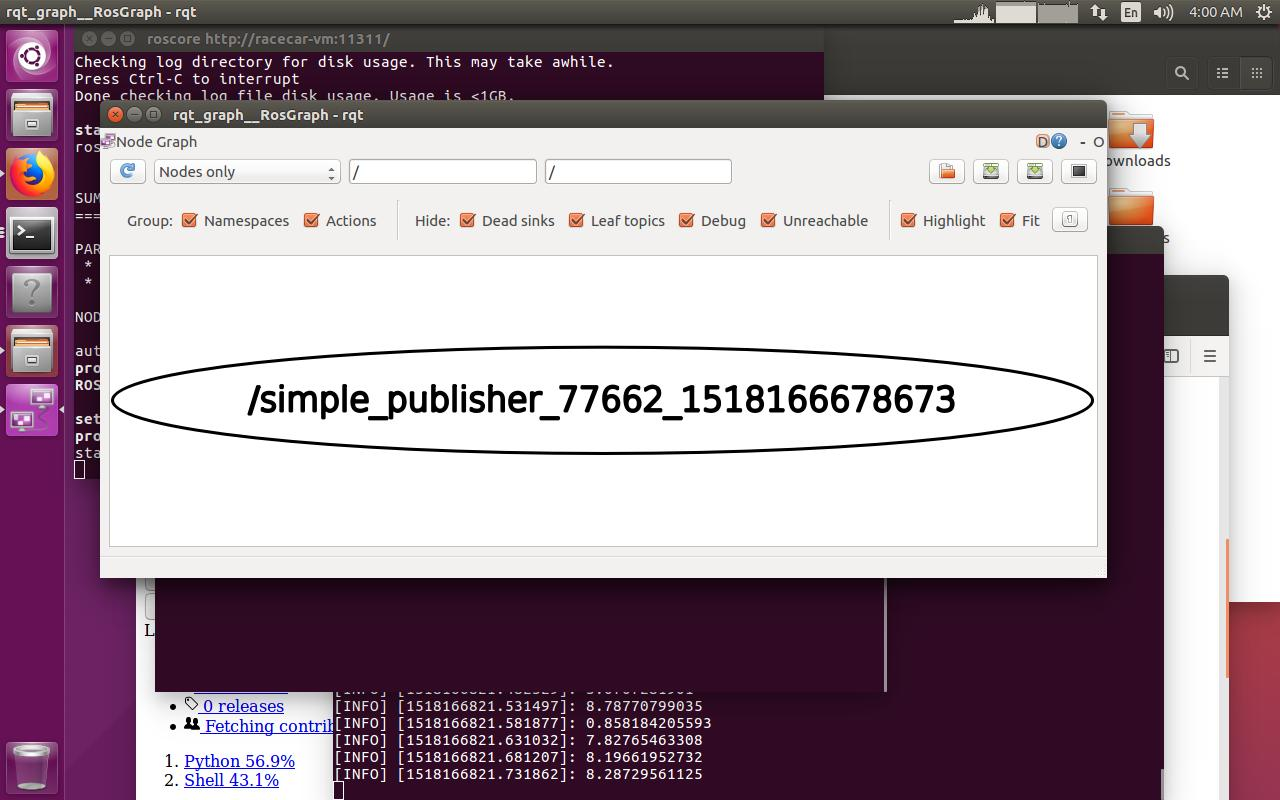
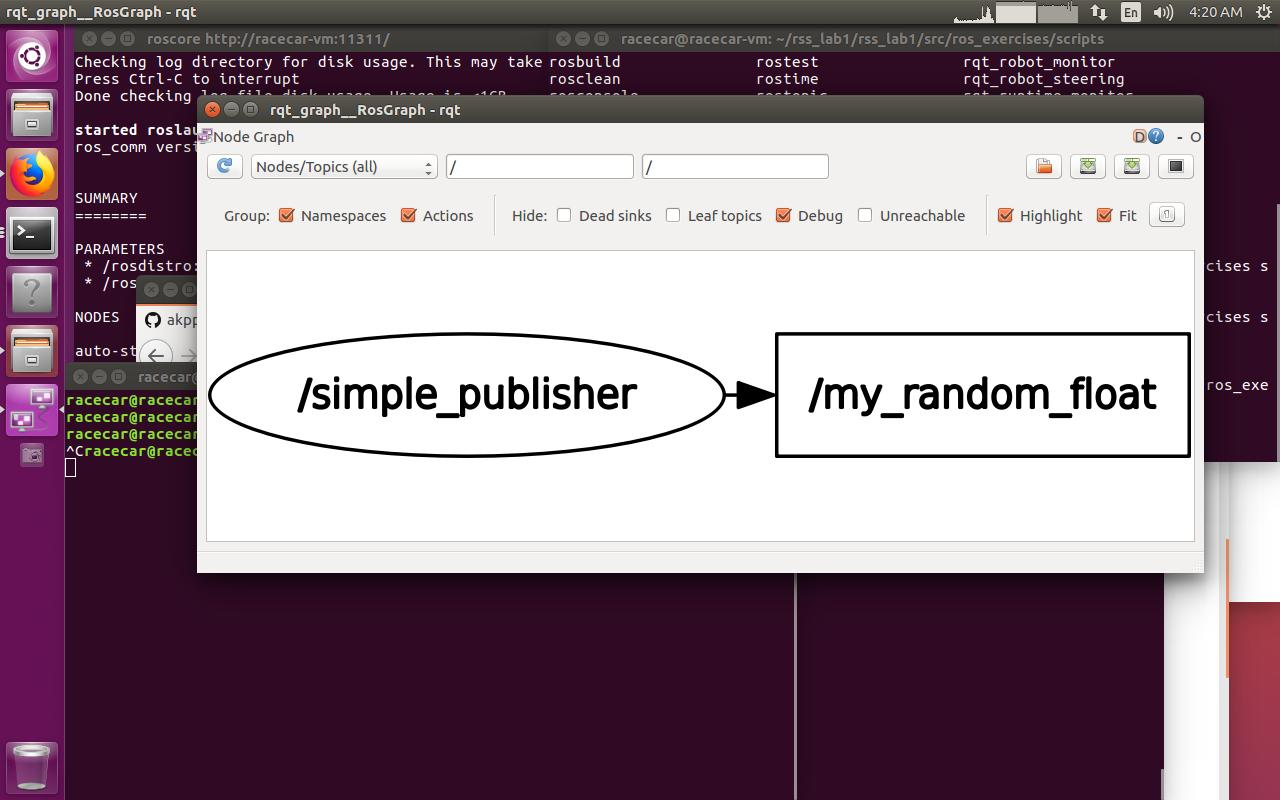
fix rqt_graph picture

Changed region(s): [[0.0, 0.0, 1.0, 1.0]]

diff --git a/rss_lab1/src/ros_exercises/scripts/simple_publisher.py b/rss_lab1/src/ros_exercises/scripts/simple_publisher.py
@@ -5,8 +5,8 @@ import random
 from std_msgs.msg import Float32
 
 def simple_publisher():
+    rospy.init_node('simple_publisher')
     pub = rospy.Publisher('my_random_float', Float32, queue_size=10)
-    rospy.init_node('simple_publisher', anonymous=True)
     rate = rospy.Rate(20) # 20hz
     while not rospy.is_shutdown():
 	rand = random.uniform(0,10.0)
